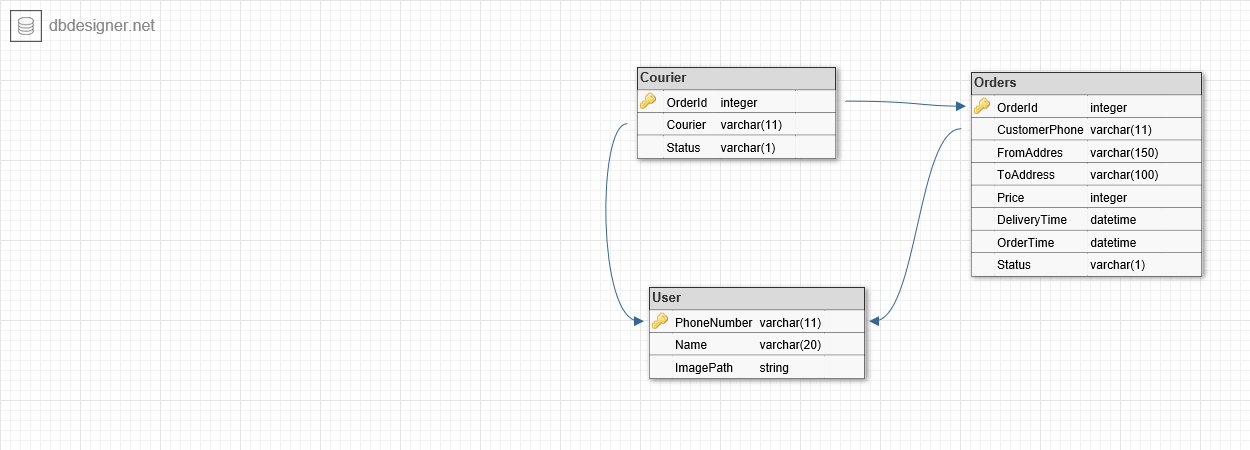
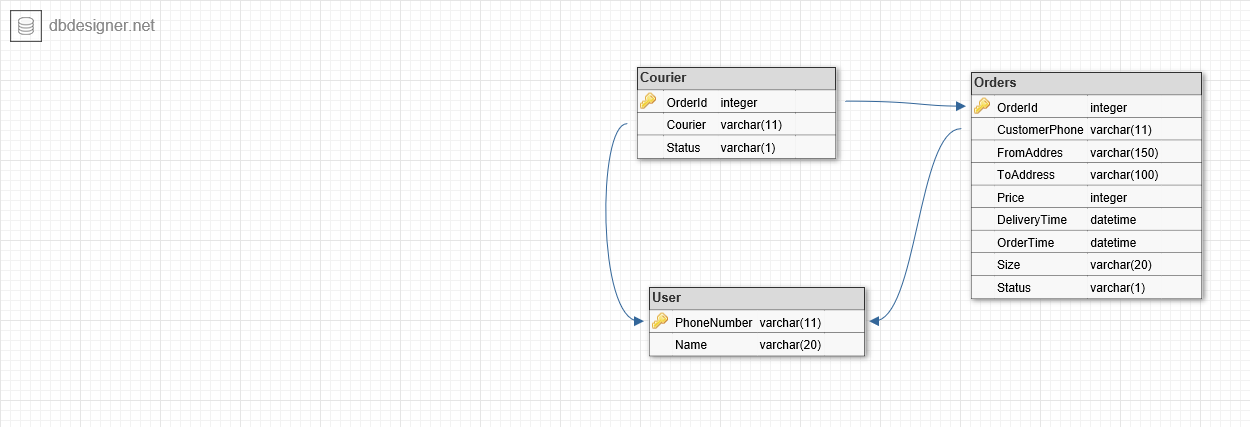
Creating metods for Orders in OrderQueries file Adding OrderQueries to program package in workspace.xml Updated ER(deleted image column from User table) Label about it in the 'Запросы на пользователей'

diff --git a/project/src/main/java/ftc/shift/sample/repositories/OrderQueries.java b/project/src/main/java/ftc/shift/sample/repositories/OrderQueries.java
@@ -19,8 +19,7 @@ public class OrderQueries implements OrderRepository{
 
     @Autowired
     public OrderQueries(){
-        String srtdate = "03-07-2019 16:15:00";
-        Date date = sdf.
+        Date date = sdf.for;
         Orders.add(++count, "from", "to", 200, sdf.parse("03-07-2019 16:15:00"));
     }
 }
